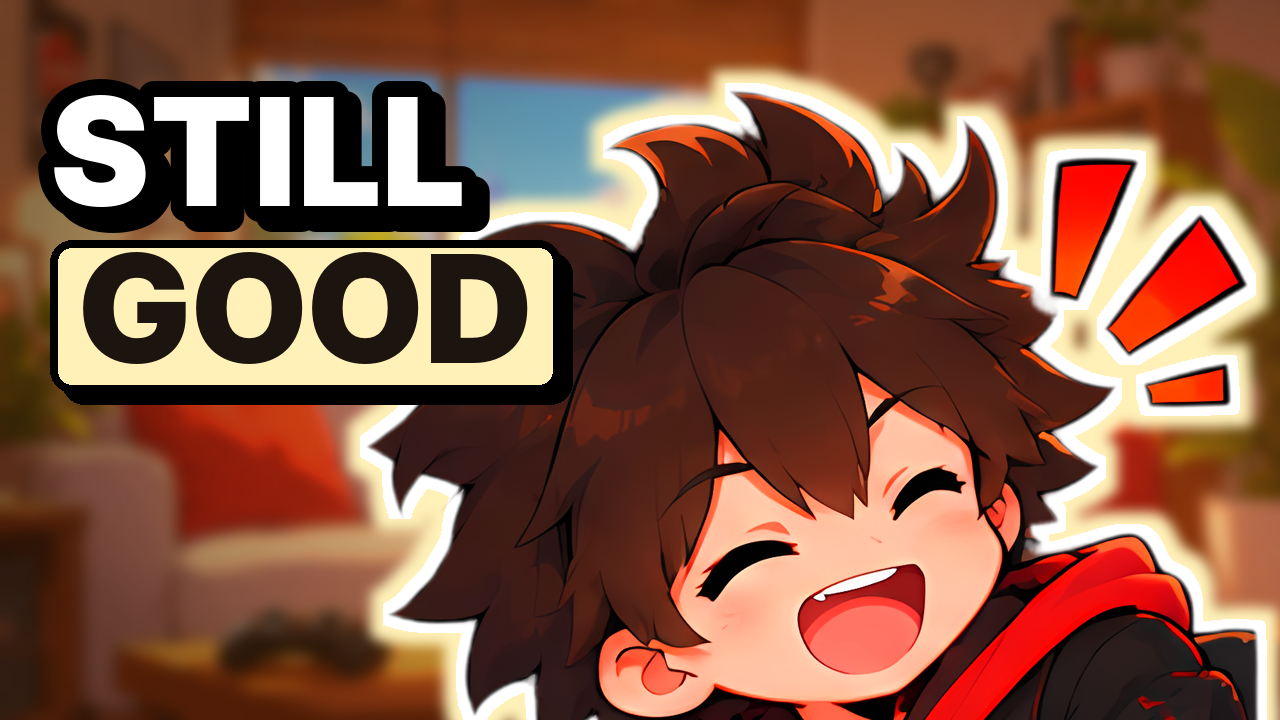
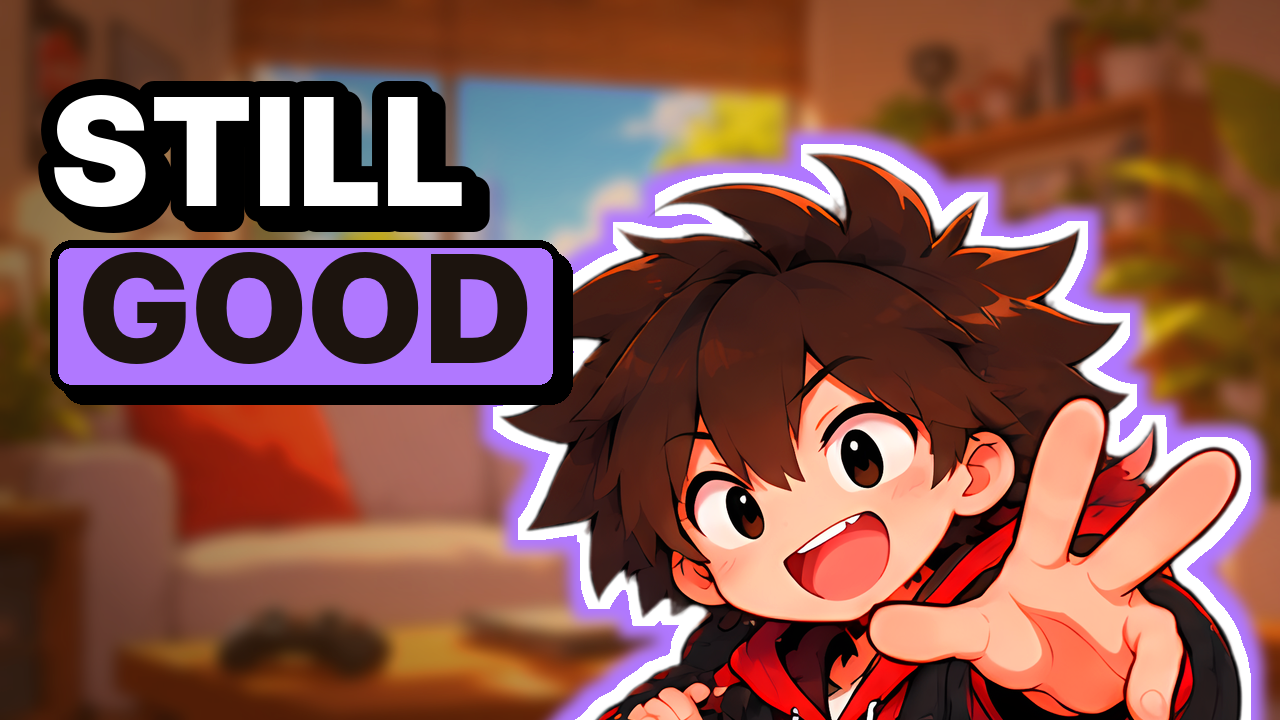
BAD long thumbnails: whole face visible (sprite fitted, not 3.15x cropped); regenerate lf12-lf15 thumbs
Claude-Session: https://claude.ai/code/session_01MTcD33dwDKqxeYGfxaFEP8

diff --git a/studio/assetedit/longform.py b/studio/assetedit/longform.py
@@ -358,14 +358,15 @@ def thumbnail(v, path):
     if mir: img = img.transpose(Image.FLIP_LEFT_RIGHT)  # mirror only the background: sprites carry symbols ("?") that must not flip
     hd = os.path.join(CH, "assets_hd", os.path.basename(ASSETS[th["sprite"]]["file_path"])); k = 4 if os.path.exists(hd) else 1  # sharp 4x sprite when available
     sp = Image.open(hd if k == 4 else os.path.join(CH, ASSETS[th["sprite"]]["file_path"])).convert("RGBA")
-    sp = ImageEnhance.Color(sp.resize((round(sp.width * 3.15 / k), round(sp.height * 3.15 / k)), Image.LANCZOS)).enhance(1.25)
+    sc = min(640 / sp.height, 760 / sp.width)   # owner 18 Oct: the whole face must be visible (was 3.15x = half the head cut off) -> fit inside the frame, bleed only ~50px at the bottom
+    sp = ImageEnhance.Color(sp.resize((round(sp.width * sc), round(sp.height * sc)), Image.LANCZOS)).enhance(1.25)
     # sprites are cropped at their image border: fade those cut edges so no straight lines show
     al = np.asarray(sp.split()[-1]).astype(float); h, w = al.shape; F = 60; ramp = np.linspace(0, 1, F)
     if al[:, 0].max() > 0: al[:, :F] *= ramp[None, :]
     if al[0, :].max() > 0: al[:F, :] *= ramp[:, None]
     if al[:, -1].max() > 0: al[:, -F:] *= ramp[::-1][None, :]
     P = 40; a = Image.new("L", (w + 2 * P, h + 2 * P)); a.paste(Image.fromarray(al.astype(np.uint8)), (P, P))
-    sp.putalpha(Image.fromarray(al.astype(np.uint8))); x0, y0 = (10 if mir else 1280 - w - 10), 720 - h + 150
+    sp.putalpha(Image.fromarray(al.astype(np.uint8))); x0, y0 = (30 if mir else 1280 - w - 30), 720 - h + 50
     for grow, col in ((22, (acc if th.get("accent") else (255, 186, 80)) if calm else (0, 230, 255)), (10, (255, 255, 255))):  # rim light, then white sticker edge
         rim = Image.new("RGBA", a.size, col + (0,)); rim.putalpha(a.point(lambda p: 255 if p > 128 else 0).filter(ImageFilter.MaxFilter(grow * 2 + 1)))
         if grow > 12: rim = rim.filter(ImageFilter.GaussianBlur(6))

diff --git a/studio/RUNBOOK.md b/studio/RUNBOOK.md
@@ -268,3 +268,5 @@ Never the same character pose on BAD Short covers. `shorts.cover()` picks from a
 
 ## BTT Short covers (owner 18 Oct)
 Only the Codex picture, no text added by us (no overlay). Lettering inside the picture exactly like the long thumbnail (stacked cream-gold serif, ornament rules); gate minimum 7% cap height. Drawn cover.py stays the fallback.
+## LONG THUMBNAIL FACE FULLY VISIBLE (owner 18 Oct 2026)
+`longform.thumbnail()` fits the sprite inside the frame (max 640 px high / 760 px wide, ~50 px bleed at the bottom). Never crop half the face. Check every new thumbnail by looking at it before posting.
